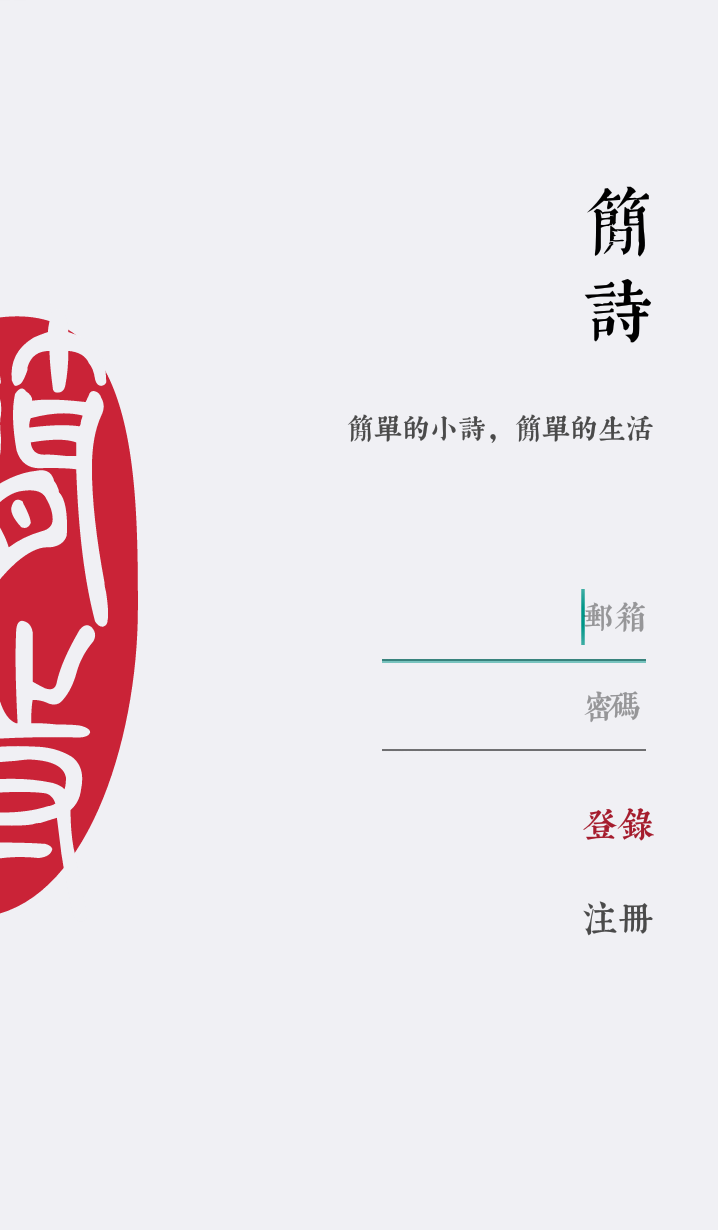
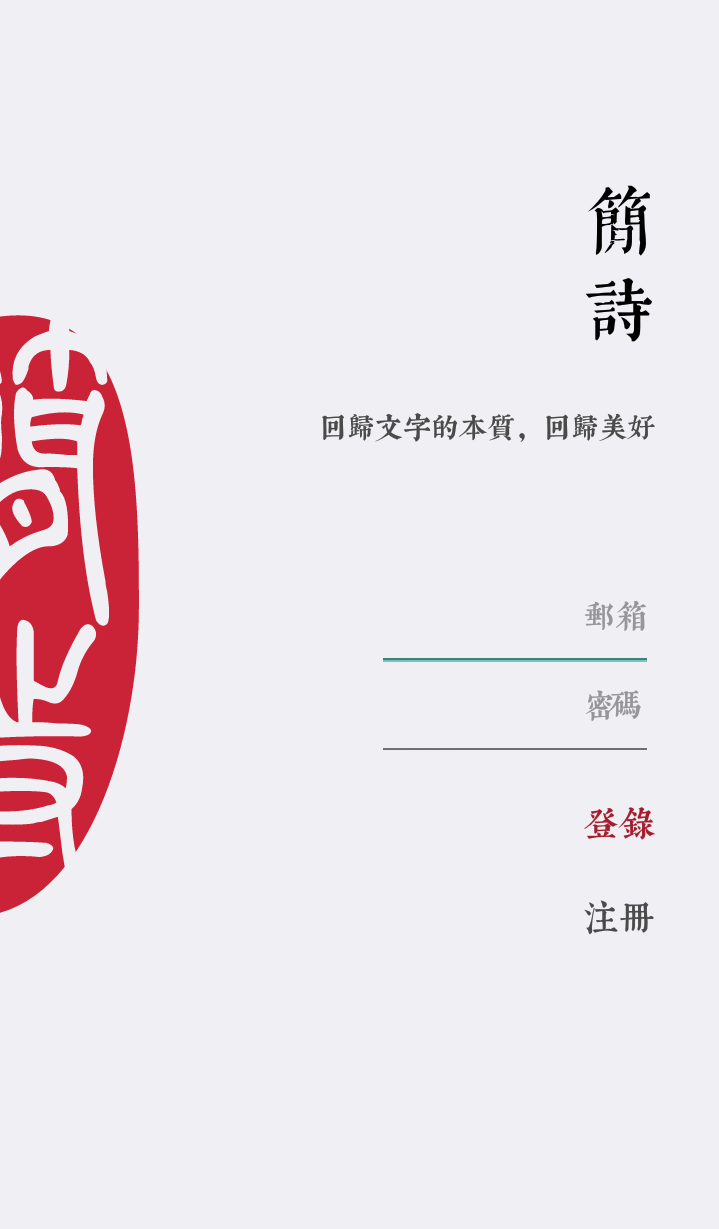
tweak

diff --git a/android/app/src/main/java/com/wingjay/jianshi/bean/ShareContent.java b/android/app/src/main/java/com/wingjay/jianshi/bean/ShareContent.java
@@ -11,7 +11,7 @@ public class ShareContent {
   String link;
 
   @SerializedName("share_text")
-  String shareText = "回归文字的本质,回归初心.";
+  String shareText = "回归文字的本质，回归美好";
 
   public String getLink() {
     return link;
